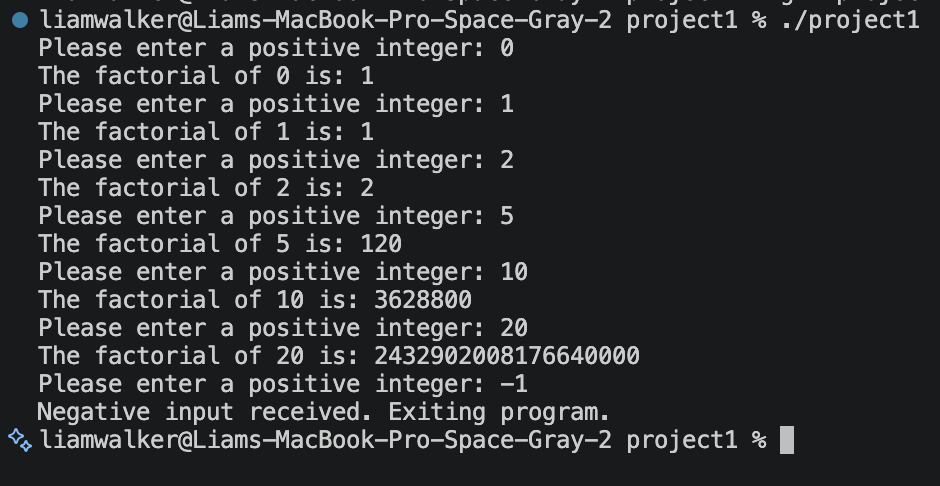
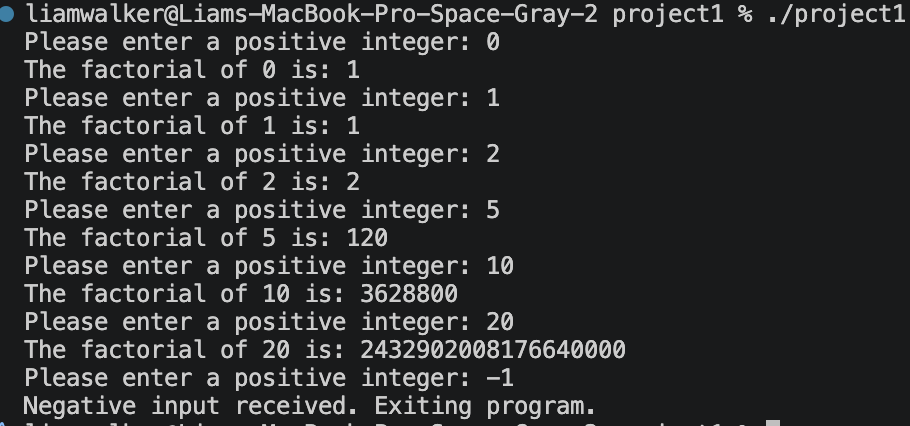
Fixed Module 11

Changed region(s): [[0.0, 0.0, 1.0, 1.0], [0.8308, 0.9765, 0.8615, 1.0]]

diff --git a/Module11/Homework11/project1/project1.cpp b/Module11/Homework11/project1/project1.cpp
@@ -18,7 +18,7 @@
 using namespace std;
 
 
-long long recursiveFactoral(long long n);
+long long iterativeFactoral(long long n);
 
 int main() {
 
@@ -36,8 +36,8 @@ int main() {
             break;
         }
 
-        // Call the recursive function to calculate the factorial of the input and display the result.
-        cout << "The factorial of " << n << " is: " << recursiveFactoral(n) << endl;
+        // Call the iterative function to calculate the factorial of the input and display the result.
+        cout << "The factorial of " << n << " is: " << iterativeFactoral(n) << endl;
 
 
     }
@@ -47,13 +47,17 @@ int main() {
     return 0;
 }
 
-// Implement the recursive function to calculate the factorial of a number, with a base case for 0 and 1, and a recursive case for n > 1.
-long long recursiveFactoral(long long n) {
+// Implement the iterative function to calculate the factorial of a number.
+long long iterativeFactoral(long long n) {
     // Base Case: If n is 0 or 1, return 1
     if (n == 0 || n == 1) {
         return 1;
     }
 
-    // Recursive Case: n! = n * (n - 1)!
-    return n * recursiveFactoral(n - 1);
+    // Iterative Case: Calculate factorial using a loop
+    long long result = 1;
+    for (long long i = 2; i <= n; i++) {
+        result *= i;
+    }
+    return result;
 }

diff --git a/Module11/Lab11/project2/project2.cpp b/Module11/Lab11/project2/project2.cpp
@@ -56,17 +56,9 @@ int recursiveBinaryToDecimal(string s) {
 
 int iterativeBinaryToDecimal(string n) {
     int decimalValue = 0;
-    int power = 1; // Represents the current power of 2 (1, 2, 4, 8, etc.)
-    // Loop through the binary string from right to left
-    for (int i = n.length() - 1; i >= 0; i--) {
-        // Convert the current character to an integer (0 or 1)
+    for (int i = 0; i < n.length(); i++) {
         int digit = n[i] - '0';
-        // Update the decimal value by adding the current digit multiplied by the current power of 2
-        decimalValue += digit * power;
-        // Update the power of 2 for the next iteration
-        power *= 2;
+        decimalValue = decimalValue * 2 + digit;
     }
-
     return decimalValue;
-
 }
